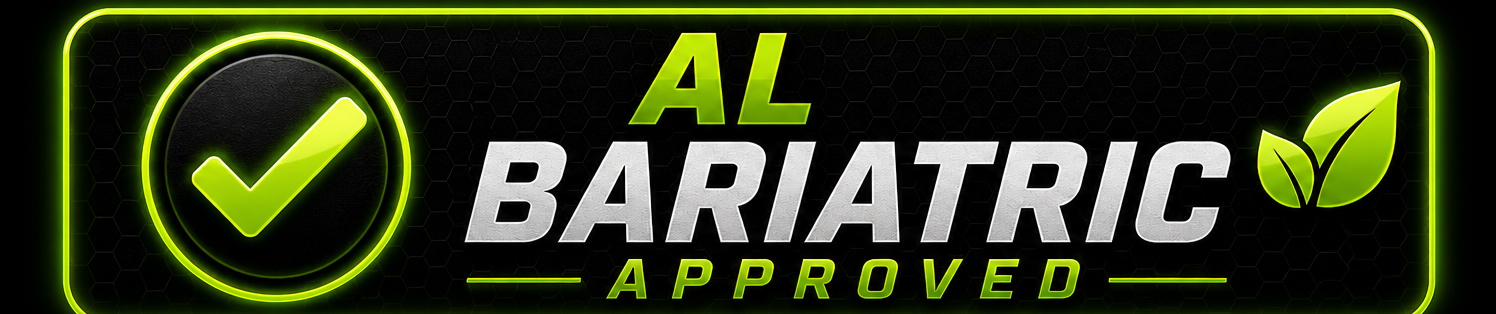
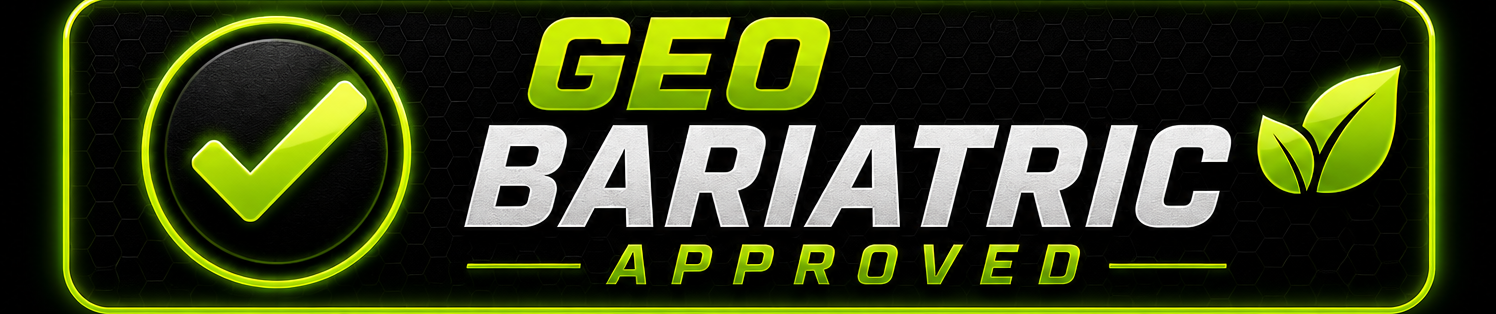
Add product images for affiliate batch, fix swapped AL/GEO approval badges
The AL and GEO bariatric-approved badge images had been mislabeled since
they were first added, so removing the AL badge deleted the artwork
actually used by the GEO badge. Restored the correct GEO artwork.

diff --git a/data/products.ts b/data/products.ts
@@ -1422,6 +1422,7 @@ export const products = [
     name: "Bari Life Just One Multivitamin with Iron (90 Tablets)",
     brand: "Bari Life",
     category: "multivitamin",
+    image: "/products/bari-life-just-one-multivitamin-90ct.png",
     servings: 90,
     nutrition: { proteinGrams: 0 },
     approvedBy: ["geo"],
@@ -1434,6 +1435,7 @@ export const products = [
     name: "Ghost Whey Protein Powder, Trix Cereal Milk (2 lb)",
     brand: "Ghost",
     category: "protein",
+    image: "/products/ghost-whey-trix-cereal-milk.png",
     servings: 27,
     nutrition: { proteinGrams: 25 },
     approvedBy: ["geo"],
@@ -1447,6 +1449,7 @@ export const products = [
     brand: "Spylt",
     category: "protein",
     additionalCategories: ["food-drink"],
+    image: "/products/spylt-chocolate.jpg",
     servings: 12,
     nutrition: { proteinGrams: 20 },
     approvedBy: ["geo"],
@@ -1460,6 +1463,7 @@ export const products = [
     brand: "Spylt",
     category: "protein",
     additionalCategories: ["food-drink"],
+    image: "/products/spylt-max-chocolate.jpg",
     servings: 12,
     nutrition: { proteinGrams: 20 },
     approvedBy: ["geo"],
@@ -1473,6 +1477,7 @@ export const products = [
     brand: "Spylt",
     category: "protein",
     additionalCategories: ["food-drink"],
+    image: "/products/spylt-vanilla-milkshake.jpg",
     servings: 12,
     nutrition: { proteinGrams: 20 },
     approvedBy: ["geo"],
@@ -1486,6 +1491,7 @@ export const products = [
     brand: "Spylt",
     category: "protein",
     additionalCategories: ["food-drink"],
+    image: "/products/spylt-cookies-cream.jpg",
     servings: 12,
     nutrition: { proteinGrams: 20 },
     approvedBy: ["geo"],
@@ -1499,6 +1505,7 @@ export const products = [
     brand: "Spylt",
     category: "protein",
     additionalCategories: ["food-drink"],
+    image: "/products/spylt-strawberry.jpg",
     servings: 12,
     nutrition: { proteinGrams: 20 },
     approvedBy: ["geo"],
@@ -1512,6 +1519,7 @@ export const products = [
     brand: "Spylt",
     category: "protein",
     additionalCategories: ["food-drink"],
+    image: "/products/spylt-peanut-butter-chocolate.jpg",
     servings: 12,
     nutrition: { proteinGrams: 20 },
     approvedBy: ["geo"],
@@ -1525,6 +1533,7 @@ export const products = [
     brand: "Built Bar",
     category: "protein",
     additionalCategories: ["food-drink"],
+    image: "/products/built-puff-coconut.jpg",
     servings: 12,
     nutrition: { proteinGrams: 17 },
     approvedBy: ["geo"],
@@ -1538,6 +1547,7 @@ export const products = [
     brand: "Built Bar",
     category: "protein",
     additionalCategories: ["food-drink"],
+    image: "/products/built-puff-brownie-batter.jpg",
     servings: 12,
     nutrition: { proteinGrams: 17 },
     approvedBy: ["geo"],
@@ -1551,6 +1561,7 @@ export const products = [
     brand: "Built Bar",
     category: "protein",
     additionalCategories: ["food-drink"],
+    image: "/products/built-puff-cookies-n-cream.jpg",
     servings: 12,
     nutrition: { proteinGrams: 20 },
     approvedBy: ["geo"],
@@ -1564,6 +1575,7 @@ export const products = [
     brand: "Built Bar",
     category: "protein",
     additionalCategories: ["food-drink"],
+    image: "/products/built-puff-cookie-dough-chunk.jpg",
     servings: 12,
     nutrition: { proteinGrams: 15 },
     approvedBy: ["geo"],
@@ -1577,6 +1589,7 @@ export const products = [
     brand: "Built Bar",
     category: "protein",
     additionalCategories: ["food-drink"],
+    image: "/products/built-puff-salted-caramel.jpg",
     servings: 12,
     nutrition: { proteinGrams: 17 },
     approvedBy: ["geo"],
@@ -1590,6 +1603,7 @@ export const products = [
     brand: "Built Bar",
     category: "protein",
     additionalCategories: ["food-drink"],
+    image: "/products/built-puff-peanut-butter-cup.jpg",
     servings: 12,
     nutrition: { proteinGrams: 17 },
     approvedBy: ["geo"],
@@ -1603,6 +1617,7 @@ export const products = [
     brand: "Built Bar",
     category: "protein",
     additionalCategories: ["food-drink"],
+    image: "/products/built-puff-strawberries-n-cream.jpg",
     servings: 12,
     nutrition: { proteinGrams: 15 },
     approvedBy: ["geo"],
@@ -1616,6 +1631,7 @@ export const products = [
     brand: "Built Bar",
     category: "protein",
     additionalCategories: ["food-drink"],
+    image: "/products/built-sour-puff-blue-razz-blast.jpg",
     servings: 12,
     nutrition: { proteinGrams: 16 },
     approvedBy: ["geo"],
@@ -1629,6 +1645,7 @@ export const products = [
     brand: "Built Bar",
     category: "protein",
     additionalCategories: ["food-drink"],
+    image: "/products/built-sour-puff-green-apple-crush.jpg",
     servings: 12,
     nutrition: { proteinGrams: 16 },
     approvedBy: ["geo"],
@@ -1642,6 +1659,7 @@ export const products = [
     brand: "Built Bar",
     category: "protein",
     additionalCategories: ["food-drink"],
+    image: "/products/built-sour-puff-sweet-peach-punch.jpg",
     servings: 12,
     nutrition: { proteinGrams: 16 },
     approvedBy: ["geo"],
@@ -1655,6 +1673,7 @@ export const products = [
     brand: "Built Bar",
     category: "protein",
     additionalCategories: ["food-drink"],
+    image: "/products/built-sour-puff-variety-pack.jpg",
     servings: 12,
     nutrition: { proteinGrams: 16 },
     approvedBy: ["geo"],
@@ -1667,6 +1686,7 @@ export const products = [
     name: "Bari Life BariBurst Calcium Citrate Chews with 1000 IU Vitamin D3, Watermelon (90 Count)",
     brand: "Bari Life",
     category: "bariatric",
+    image: "/products/bari-life-bariburst-watermelon.png",
     servings: 90,
     nutrition: { proteinGrams: 0 },
     offers: [
@@ -1678,6 +1698,7 @@ export const products = [
     name: "Bari Life BariBurst Calcium Citrate Chews with 1000 IU Vitamin D3, Sour Grape (90 Count)",
     brand: "Bari Life",
     category: "bariatric",
+    image: "/products/bari-life-bariburst-sour-grape.png",
     servings: 90,
     nutrition: { proteinGrams: 0 },
     offers: [
@@ -1689,6 +1710,7 @@ export const products = [
     name: "Bari Life BariBurst Calcium Citrate Chews with 1000 IU Vitamin D3, Lemon Lime (90 Count)",
     brand: "Bari Life",
     category: "bariatric",
+    image: "/products/bari-life-bariburst-lemon-lime.png",
     servings: 90,
     nutrition: { proteinGrams: 0 },
     offers: [
@@ -1700,6 +1722,7 @@ export const products = [
     name: "Ghost Whey Protein Powder, Cinnabon (5 lb)",
     brand: "Ghost",
     category: "protein",
+    image: "/products/ghost-whey-cinnabon.png",
     servings: 67,
     nutrition: { proteinGrams: 25 },
     offers: [
@@ -1711,6 +1734,7 @@ export const products = [
     name: "Ghost Whey Protein Powder, Coffee Ice Cream (2 lb)",
     brand: "Ghost",
     category: "protein",
+    image: "/products/ghost-whey-coffee-ice-cream.png",
     servings: 27,
     nutrition: { proteinGrams: 25 },
     offers: [
@@ -1722,6 +1746,7 @@ export const products = [
     name: "Ghost Whey Protein Powder, Lucky Charms Cereal Milk (2 lb)",
     brand: "Ghost",
     category: "protein",
+    image: "/products/ghost-whey-lucky-charms-cereal-milk.png",
     servings: 27,
     nutrition: { proteinGrams: 25 },
     offers: [
@@ -1733,6 +1758,7 @@ export const products = [
     name: "Ghost Whey Protein Powder, Milk Chocolate (2 lb)",
     brand: "Ghost",
     category: "protein",
+    image: "/products/ghost-whey-milk-chocolate.png",
     servings: 27,
     nutrition: { proteinGrams: 25 },
     offers: [
@@ -1744,6 +1770,7 @@ export const products = [
     name: "Ghost Whey Protein Powder, Peanut Butter Cereal Milk (2 lb)",
     brand: "Ghost",
     category: "protein",
+    image: "/products/ghost-whey-peanut-butter-cereal-milk.png",
     servings: 26,
     nutrition: { proteinGrams: 26 },
     offers: [
@@ -1755,6 +1782,7 @@ export const products = [
     name: "Ghost Whey Protein Powder, Cereal Milk (2 lb)",
     brand: "Ghost",
     category: "protein",
+    image: "/products/ghost-whey-cereal-milk.png",
     servings: 27,
     nutrition: { proteinGrams: 25 },
     offers: [
@@ -1766,6 +1794,7 @@ export const products = [
     name: "Ghost Whey Protein Powder, Count Chocula (2.12 lb)",
     brand: "Ghost",
     category: "protein",
+    image: "/products/ghost-whey-count-chocula.png",
     servings: 27,
     nutrition: { proteinGrams: 25 },
     offers: [
@@ -1778,6 +1807,7 @@ export const products = [
     brand: "Built Bar",
     category: "protein",
     additionalCategories: ["food-drink"],
+    image: "/products/built-puff-minions-monsters.jpg",
     servings: 12,
     nutrition: { proteinGrams: 16 },
     offers: [
@@ -1790,6 +1820,7 @@ export const products = [
     brand: "Built Bar",
     category: "protein",
     additionalCategories: ["food-drink"],
+    image: "/products/built-puff-churro.jpg",
     servings: 12,
     nutrition: { proteinGrams: 17 },
     offers: [
@@ -1801,6 +1832,7 @@ export const products = [
     name: "Pin Up Girl Magnesium Glycinate for Women, 150mg Chelated (60 Capsules)",
     brand: "Pin Up Girl",
     category: "other",
+    image: "/products/pin-up-girl-magnesium-glycinate.png",
     servings: 30,
     nutrition: { proteinGrams: 0 },
     offers: [

diff --git a/lib/approvals.ts b/lib/approvals.ts
@@ -1,5 +1,4 @@
 export const APPROVAL_BADGES: Record<string, string> = {
   jannette: "/products/JANNETTE_Bariatric_Approved.png",
-  al: "/products/AL_Bariatric_Approved.png",
   geo: "/products/GEO_Bariatric_Approved.png",
 };